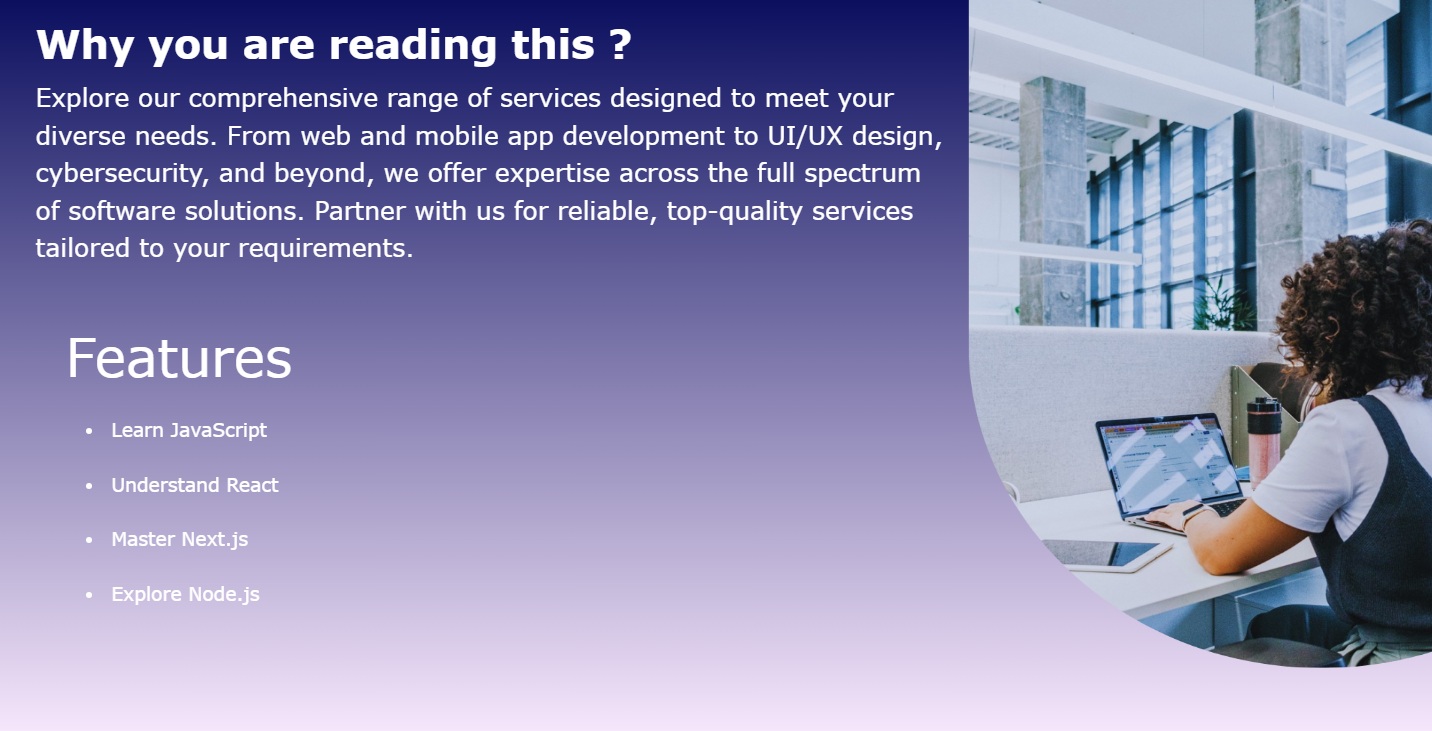
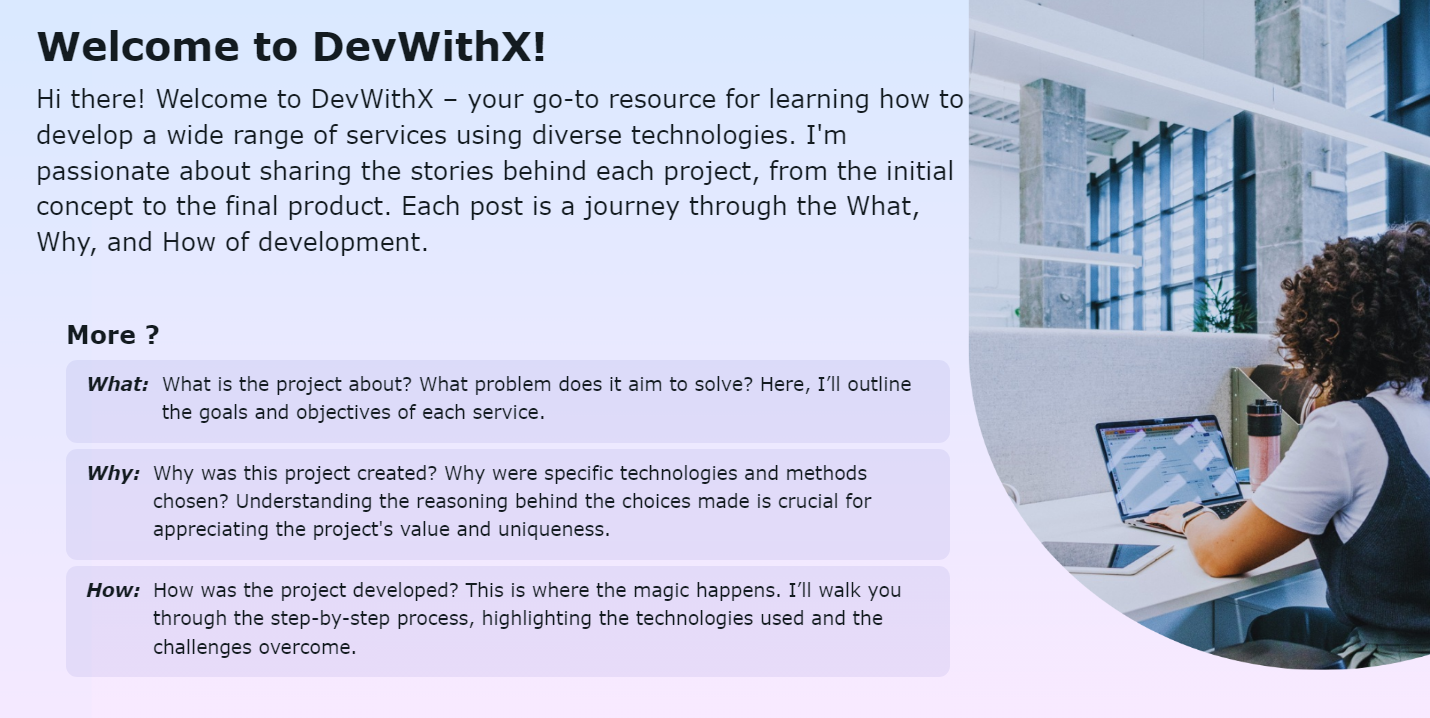
cv forms 2

diff --git a/components/HomeSlider.tsx b/components/HomeSlider.tsx
@@ -5,10 +5,22 @@ import {animated, useSpring} from 'react-spring';
 import ListItem from "@mui/material/ListItem";
 
 const features = [
-    'Learn JavaScript',
-    'Understand React',
-    'Master Next.js',
-    'Explore Node.js',
+    {
+        title:
+            "What", text:
+
+            "What is the project about? What problem does it aim to solve? Here, I’ll outline the goals and objectives of each service."
+    },
+    {
+        title: "Why",
+        text: "Why was this project created? Why were specific technologies and methods chosen? Understanding the reasoning behind the choices made is crucial for appreciating the project's value and uniqueness."
+    },
+
+    {
+        title: "How",
+        text: "How was the project developed? This is where the magic happens. I’ll walk you through the step-by-step process, highlighting the technologies used and the challenges overcome."
+    },
+
 ];
 
 const HomeSlider = () => {
@@ -27,28 +39,43 @@ const HomeSlider = () => {
     });
 
     return (
-        <Box sx={{flexGrow: 1, padding: 3}}>
+        <Box sx={{flexGrow: 1, padding: 4}}>
             <Grid container spacing={0} alignItems="center">
                 <Grid item xs={12} md={12}>
                     <animated.div style={props}>
-                        <Typography variant={"h1"} sx={{marginTop:'-12px',fontSize: {xs: "20px", sm: "26px", md: "32px"}}} gutterBottom>
-                            Why you are reading this?
+                        <Typography variant={"h1"}
+                                    sx={{marginTop: '-10px', fontSize: {xs: "20px", sm: "26px", md: "32px"}}}
+                                    gutterBottom>
+                            Welcome to DevWithX!
                         </Typography>
-                        <Typography sx={{width: "68%", fontSize: {xs: "13px", sm: "20px", md: "20px"}}}> Explore our
-                            comprehensive range of services designed to meet your diverse needs. From UI/UX design to web development, cybersecurity, and beyond, we offer expertise across
-                            the full spectrum of software solutions. Partner with us for reliable, top-quality services
-                            tailored to your requirements.</Typography>
+                        <Typography variant={"body2"}
+                                    sx={{width: "69%", fontSize: {xs: "13px", sm: "20px", md: "20px"}}}>
+                            Hi there! Welcome to DevWithX – your go-to resource for learning how to develop a wide range
+                            of services using diverse technologies. I'm passionate about sharing the stories behind each
+                            project, from the initial concept to the final product. Each post is a journey through the
+                            What, Why, and How of development.</Typography>
                         <br/>
 
                     </animated.div>
                     <Grid p={3} sx={{display:{xs:"none",sm:"flex"}}}>
                         <animated.div style={props2}>
-                            <Typography variant="h3" gutterBottom>
-                                Features
+                            <Typography variant="h5" gutterBottom>
+                                More ?
                             </Typography>
                             {features.map((feature, index) => (
-                               <ListItem key={index}> <Typography  variant="body1" gutterBottom>
-                                   <li>{feature}</li>
+                                <ListItem key={index} sx={{
+                                    display: "flex",
+                                    alignItems: "start",
+                                    width: "68%",
+                                    backgroundColor: '#22a1',
+                                    columnGap: "10px",
+                                    marginBlock: "5px",
+                                    paddingBlock: "8px",
+                                    borderRadius:"9px"
+                                }}>
+                                    <Typography fontStyle={"italic"} fontWeight={700}>{feature?.title}: </Typography> <Typography
+                                    sx={{color: 'text.primary'}} gutterBottom>
+                                    {feature.text}
                                </Typography></ListItem>
                             ))}
                         </animated.div>

diff --git a/components/MyServices.tsx b/components/MyServices.tsx
@@ -75,30 +75,30 @@ const servicesList = [
             "Deploying and managing applications on cloud platforms like AWS, Azure, or Google Cloud.",
         icon: <Cloud/>,
     },
-    {
-        title: "Blockchain Development",
-        description:
-            "Developing decentralized applications (DApps) or smart contracts using blockchain technology.",
-        icon: <Timeline/>,
-    },
+    // {
+    //     title: "Blockchain Development",
+    //     description:
+    //         "Developing decentralized applications (DApps) or smart contracts using blockchain technology.",
+    //     icon: <Timeline/>,
+    // },
     {
         title: "IoT Development",
         description:
             "Building connected devices and IoT solutions for various industries.",
         icon: <Router/>,
     },
-    {
-        title: "Data Analytics and Visualization",
-        description:
-            "Collecting, analyzing, and visualizing data to help businesses make informed decisions.",
-        icon: <InsertChart/>,
-    },
-    {
-        title: "Cybersecurity Services",
-        description:
-            "Providing cybersecurity services such as penetration testing, vulnerability assessments, and security audits.",
-        icon: <Security/>,
-    },
+    // {
+    //     title: "Data Analytics and Visualization",
+    //     description:
+    //         "Collecting, analyzing, and visualizing data to help businesses make informed decisions.",
+    //     icon: <InsertChart/>,
+    // },
+    // {
+    //     title: "Cybersecurity Services",
+    //     description:
+    //         "Providing cybersecurity services such as penetration testing, vulnerability assessments, and security audits.",
+    //     icon: <Security/>,
+    // },
     {
         title: "Content Management Systems (CMS)",
         description:

diff --git a/components/ContactUs.tsx b/components/ContactUs.tsx
@@ -49,7 +49,7 @@ export default function ContactUs(props: any) {
         <Box
             sx={{
                 width: "100%",
-                my: 4,
+                my: 3,
                 px:4,
                 display: "flex",
                 flexDirection: "column",
@@ -58,22 +58,7 @@ export default function ContactUs(props: any) {
                 rowGap: "15px",
             }}
         >
-            <SocialMedia/>
-            <div
-                id="contact"
-                style={{
-                    display: "flex",
-                    justifyContent: "center",
-                    alignItems: "center",
-                    columnGap: "20px",
-                }}
-            >
-                <Divider sx={{width: "40%"}}/>{" "}
-                <span style={{fontSize: "12px", color: "#bbb", marginTop: "-3px"}}>
-          or
-        </span>
-                <Divider sx={{width: "40%"}}/>
-            </div>
+
             <TextField
                 size="medium"
                 label="Your name"
@@ -124,6 +109,24 @@ export default function ContactUs(props: any) {
                     send
                 </Button>
             </Box>
+
+            <div
+
+                style={{
+                    display: "flex",
+                    justifyContent: "center",
+                    alignItems: "center",
+                    columnGap: "20px",
+                }}
+            >
+                <Divider sx={{width: "40%"}}/>{" "}
+                <span style={{fontSize: "12px", color: "#bbb", marginTop: "-3px"}}>
+          or
+        </span>
+                <Divider sx={{width: "40%"}}/>
+
+            </div>
+            <SocialMedia/>
         </Box>
     );
 }

diff --git a/components/FAQ.tsx b/components/FAQ.tsx
@@ -62,13 +62,13 @@ export default function FAQ() {
                             sx={{maxWidth: {sm: "100%", md: "70%"}}}
                         >
                             You can reach our customer support team by emailing
-                            <Link> support@email.com </Link>
+                            <Link> contact@devwithx.com </Link>
                             or calling our toll-free number. We&apos;re here to assist you
                             promptly.
                         </Typography>
                     </AccordionDetails>
                 </Accordion>
-                <Accordion
+                <Accordion sx={{display:'none'}}
                     expanded={expanded === "panel2"}
                     onChange={handleChange("panel2")}
                 >

diff --git a/components/Footer.tsx b/components/Footer.tsx
@@ -30,7 +30,7 @@ export default function Footer() {
         >
             <Box
                 sx={{
-                    display: "flex",
+                    display: "none",
                     flexDirection: {xs: "column", sm: "row"},
                     width: "100%",
                     justifyContent: "space-between",
@@ -159,9 +159,9 @@ export default function Footer() {
                 sx={{
                     display: "flex",
                     justifyContent: "space-between",
-                    pt: {xs: 4, sm: 8},
+                    pt: {xs: 4, sm: 4},
                     width: "100%",
-                    borderTop: "1px solid",
+                   // borderTop: "1px solid",
                     borderColor: "divider",
                 }}
             >

diff --git a/app/LandingPage.tsx b/app/LandingPage.tsx
@@ -29,8 +29,8 @@ export default function LandingPage() {
         <Divider /> */}
                 <FAQ/>
                 <Divider/>
-                <Grid container sx={{justifyContent: "center"}}>
-                    <Grid item xs={12} sm={12} md={6} lg={6}
+                <Grid   container sx={{justifyContent: "center"}}>
+                    <Grid id="contact"  pt={12} item xs={12} sm={12} md={6} lg={6}
 
                           xl={6}
                     >

diff --git a/components/Hero.tsx b/components/Hero.tsx
@@ -40,7 +40,7 @@ export default function Hero() {
                     sx={(theme) => ({
                         mt: {xs: 8, sm: 14},
                         alignSelf: "center",
-                        height: {xs: 250, sm: 600},
+                        height: {xs: 260, sm: 600},
                         width: "100%",
                         backgroundImage: theme.palette.mode === "light"
                             ?  'url("/images/img/presnetation2.png")':
